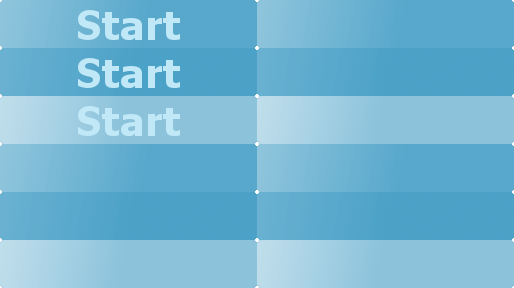
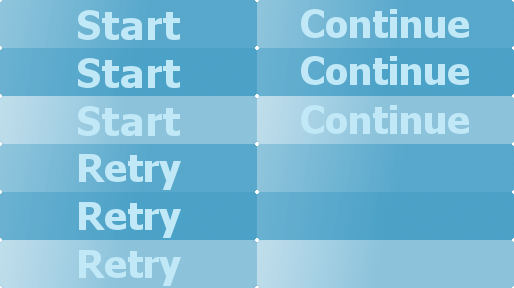
Added sounds, added score screen at end of level

diff --git a/Melt-Down/js/Game.js b/Melt-Down/js/Game.js
@@ -2,10 +2,14 @@
 
 GameStates.makeGame = function(game, shared) {
   // All the globals needed for all the different helper functions.
+  var blockCount = 0; // Used to keep track of how many blocks have been broken.
+  var blockTotal = 0; // Used to keep track of how many total blocks there are.
   var music = null;
+  var levelComplete = false;
   var jumpTimer = 0; // Used to make sure jumping can only occur when on ground.
   var slide = 'none';
   var score = 0;
+  var time = 0;
 
   function quitGame() {
     //  Here you should destroy anything you no longer need.
@@ -20,7 +24,17 @@ GameStates.makeGame = function(game, shared) {
     // If the block isn't queued for destruction or the player didn't touch its top, then it doesn't break.
     // If both conditions are met, block is queued to break.
     if (block.queued == false && player.body.touching.down == true) {
+      blockCount++;
+      this.blockCounter.text = '= ' + blockCount;
+      this.blockStep.play();
       block.queued = true;
+      // Anon function for block removal.
+      // Destroys the block at the end of its timer and increments the player's score.
+      var removeBlock = function(block) {
+        block.kill();
+        score += 10;
+        this.scoreCounter.text = 'Score = ' + score;
+      }
       // Creates the timer.
       let breakTimer = game.time.create();
       let breakBlock = breakTimer.add(Phaser.Timer.SECOND, removeBlock, this, block);
@@ -29,10 +43,114 @@ GameStates.makeGame = function(game, shared) {
       block.animations.play('break');
     }
   }
-  // Destroys the block at the end of its timer and increments the player's score.
-  function removeBlock(block) {
-    block.kill();
-    score += 10;
+
+  // Ends the level, stops the timer, 'kills' the player.
+  // Will display the end result info - win vs lose, restart vs continue.
+  function endLevel(player, water) {
+    player.kill();
+    levelComplete = true;
+    score += time * 10;
+    this.HUD.destroy();
+    let rating = null;
+    let win = true;
+    // Deterines your rating based on your score.
+    if (blockCount >= blockTotal * (3 / 4)) rating = 3;
+    else if (blockCount >= blockTotal * (1 / 2)) rating = 2;
+    else if (blockCount >= blockTotal * (1 / 4)) rating = 1;
+    else {
+      rating = 0;
+      win = false;
+    }
+    // Displays score.
+    displayScore(rating, win);
+  }
+
+  // Displays the score in a nice graphic. Gives a button for retry or for moving on.
+  function displayScore(rating, win) {
+    let textStyle = {
+      font: "normal 38px Tahoma",
+      fill: '#ffffff',
+      align: 'center',
+      boundsAlignH: "center", // bounds center align horizontally
+      boundsAlignV: "middle" // bounds center align vertically
+    };
+
+    if (win) {
+      // Creates the group for the dialogue.
+      let winGroup = game.add.group();
+      winGroup.fixedToCamera = true;
+      // Populate the dialogue with all the elements.
+      let win = game.add.sprite(0, 0, 'levelComplete');
+      winGroup.add(win);
+      if (rating == 1) {
+        let star1 = game.add.sprite(game.world.centerX - 64, 200, 'star');
+        winGroup.add(star1);
+        let star2 = game.add.sprite(game.world.centerX - 16, 200, 'noStar');
+        winGroup.add(star2);
+        let star3 = game.add.sprite(game.world.centerX + 32, 200, 'noStar');
+        winGroup.add(star3);
+      }
+      else if (rating == 2) {
+        let star1 = game.add.sprite(game.world.centerX - 64, 200, 'star');
+        winGroup.add(star1);
+        let star2 = game.add.sprite(game.world.centerX - 16, 200, 'star');
+        winGroup.add(star2);
+        let star3 = game.add.sprite(game.world.centerX + 32, 200, 'noStar');
+        winGroup.add(star3);
+      }
+      if (rating == 3) {
+        let star1 = game.add.sprite(game.world.centerX - 64, 200, 'star');
+        winGroup.add(star1);
+        let star2 = game.add.sprite(game.world.centerX - 16, 200, 'star');
+        winGroup.add(star2);
+        let star3 = game.add.sprite(game.world.centerX + 32, 200, 'star');
+        winGroup.add(star3);
+      }
+      // Convoluted method of centering text.
+      let scoreCounter = game.add.text(90, 300, score, textStyle);
+      scoreCounter.x = game.world.centerX - (scoreCounter.width / 2);
+      winGroup.add(scoreCounter);
+      // The button for restarting. ADD A QUIT BUTTON? <------------------------------------------------------
+      let continueButtonFrame = game.add.sprite(game.world.centerX - 132, 435, 'buttonFrame');
+      winGroup.add(continueButtonFrame);
+      let continueButton = game.add.button(game.world.centerX - 128, 438, 'buttons', null, null, 5, 1, 3);
+      winGroup.add(continueButton);
+    }
+    else {
+      // Creates the group for the dialogue.
+      let failGroup = game.add.group();
+      failGroup.fixedToCamera = true;
+      // Populate the dialogue with all the elements.
+      let failed = game.add.sprite(0, 0, 'levelFailed');
+      failGroup.add(failed);
+      let star1 = game.add.sprite(game.world.centerX - 64, 200, 'noStar');
+      failGroup.add(star1);
+      let star2 = game.add.sprite(game.world.centerX - 16, 200, 'noStar');
+      failGroup.add(star2);
+      let star3 = game.add.sprite(game.world.centerX + 32, 200, 'noStar');
+      failGroup.add(star3);
+      // Convoluted method of centering text.
+      let scoreCounter = game.add.text(90, 300, score, textStyle);
+      scoreCounter.x = game.world.centerX - (scoreCounter.width / 2);
+      failGroup.add(scoreCounter);
+      // The button for restarting. ADD A QUIT BUTTON? <------------------------------------------------------
+      let retryButtonFrame = game.add.sprite(game.world.centerX - 132, 435, 'buttonFrame');
+      failGroup.add(retryButtonFrame);
+      let retryButton = game.add.button(game.world.centerX - 128, 438, 'buttons', retry, null, 10, 6, 8);
+      failGroup.add(retryButton);
+    }
+  }
+
+  function retry() {
+    music.stop();
+    // Reset all global variables.
+    blockCount = 0;
+    blockTotal = 0;
+    levelComplete = false;
+    score = 0;
+    time = 0;
+    game.time.reset();
+    game.state.restart();
   }
 
   return {
@@ -52,6 +170,10 @@ GameStates.makeGame = function(game, shared) {
       // Sound effects stuffs.
       this.jump = game.add.audio('jump');
       this.jump.volume = .3;
+      this.blockStep = game.add.audio('blockStep');
+      this.blockStep.volume = .3;
+      this.playerWater = game.add.audio('playerWater');
+      this.playerWater.volume = .3;
       // Background image
       let background = game.add.sprite(0, 0, 'background');
 
@@ -69,6 +191,7 @@ GameStates.makeGame = function(game, shared) {
       this.iceBlocks = game.add.physicsGroup();
       this.map.createFromObjects('IceLayer', 'ice', 'iceBlock', 0, true, false, this.iceBlocks);
       this.iceBlocks.forEach(block => {
+        blockTotal++;
         game.physics.enable(block, Phaser.Physics.ARCADE);
         block.body.immovable = true;
         block.body.allowGravity = false;
@@ -99,12 +222,38 @@ GameStates.makeGame = function(game, shared) {
       game.camera.follow(this.player); // Enables camera to follow player
 
       this.slideTimer = game.time.create(); // Timer for the player sliding on blocks.
-
       this.cursors = game.input.keyboard.createCursorKeys(); // Sets up arrow key bindings.
+
+      // Sets up the HUD.
+      this.HUD = game.add.group();
+      this.HUD.fixedToCamera = true;
+      // Score
+      this.scoreCounter = game.add.text(0, 0, 'Score = ' + score, {fill:'black', fontSize:'20px'});
+      this.HUD.add(this.scoreCounter);
+      // Blocks
+      this.blockCounterImage = game.add.sprite(0, 32, 'iceBlock', 3);
+      this.HUD.add(this.blockCounterImage);
+      this.blockCounter = game.add.text(35, 37, '= ' + blockCount, {fill:'black', fontSize:'20px'});
+      this.HUD.add(this.blockCounter);
+      // Timer
+      this.timerImage = game.add.sprite(0, 70, 'hourglass', 0);
+      this.HUD.add(this.timerImage);
+      this.timeCounter = game.add.text(35, 75, '= ' + time, {fill:'black', fontSize:'20px'});
+      this.HUD.add(this.timeCounter);
+
+      game.time.reset();
     },
 
     update: function () {
-      game.physics.arcade.overlap(this.player, this.waterLayer); // Will be end level function associated.
+      // Maintains the running timer for survival, timer starts a couple seconds before player gets control,
+      // so we remove two seconds to start out to adjust.
+      if (!levelComplete) {
+        time = (Math.floor(game.time.totalElapsedSeconds()));
+        this.timeCounter.text = '= ' + time;
+      }
+
+      // If the player makes contact with the water layer then the level ends.
+      game.physics.arcade.collide(this.player, this.waterLayer, endLevel, null, this);
 
       // Collision detection for all of the ice blocks.
       this.iceBlocks.forEach(block => {
@@ -124,7 +273,6 @@ GameStates.makeGame = function(game, shared) {
         this.slideTimer.stop();
         this.player.body.velocity.x = -100;
         this.player.animations.play('walkLeft');
-        // this.footstep.play();
       }
       // If right is pressed, move right.
       else if(this.cursors.right.isDown) {

diff --git a/Melt-Down/js/Preloader.js b/Melt-Down/js/Preloader.js
@@ -41,8 +41,19 @@ GameStates.makePreloader = function( game ) {
 			game.load.spritesheet('iceBlock', 'assets/sprites/ice_block.png', 32, 32);
 			game.load.atlas('penguins', 'assets/sprites/penguins.png', 'assets/sprites/penguins.json');
 
+			// All the level finished stuffs.
+			game.load.image('levelComplete', 'assets/images/levelComplete.png');
+			game.load.image('levelFailed', 'assets/images/levelFailed.png');
+			game.load.spritesheet('noStar', 'assets/sprites/noStar.png', 32, 32);
+			game.load.spritesheet('star', 'assets/sprites/star.png', 32, 32);
+
 			// All the sound effects stuffs.
 			game.load.audio('jump', 'assets/audio/sounds/jump.wav');
+			game.load.audio('blockStep', 'assets/audio/sounds/block_step.wav');
+			game.load.audio('menuSelect', 'assets/audio/sounds/menu_select.wav');
+			game.load.audio('pickup', 'assets/audio/sounds/pickup.wav');
+			game.load.audio('playerKilled', 'assets/audio/sounds/player_killed.wav');
+			game.load.audio('playerWater', 'assets/audio/sounds/playerWater.wav');
     },
 
     create: function () {

diff --git a/Melt-Down/js/MainMenu.js b/Melt-Down/js/MainMenu.js
@@ -6,6 +6,9 @@ GameStates.makeMainMenu = function( game, shared ) {
 	var playButton = null;
 
   function startGame(pointer) {
+		let buttonClick = game.add.audio('menuSelect');
+		buttonClick.volume = .3;
+		buttonClick.play();
   	//	Ok, the Play Button has been clicked or touched, so let's stop the music (otherwise it'll carry on playing)
     music.stop();
     //	And start the actual game
